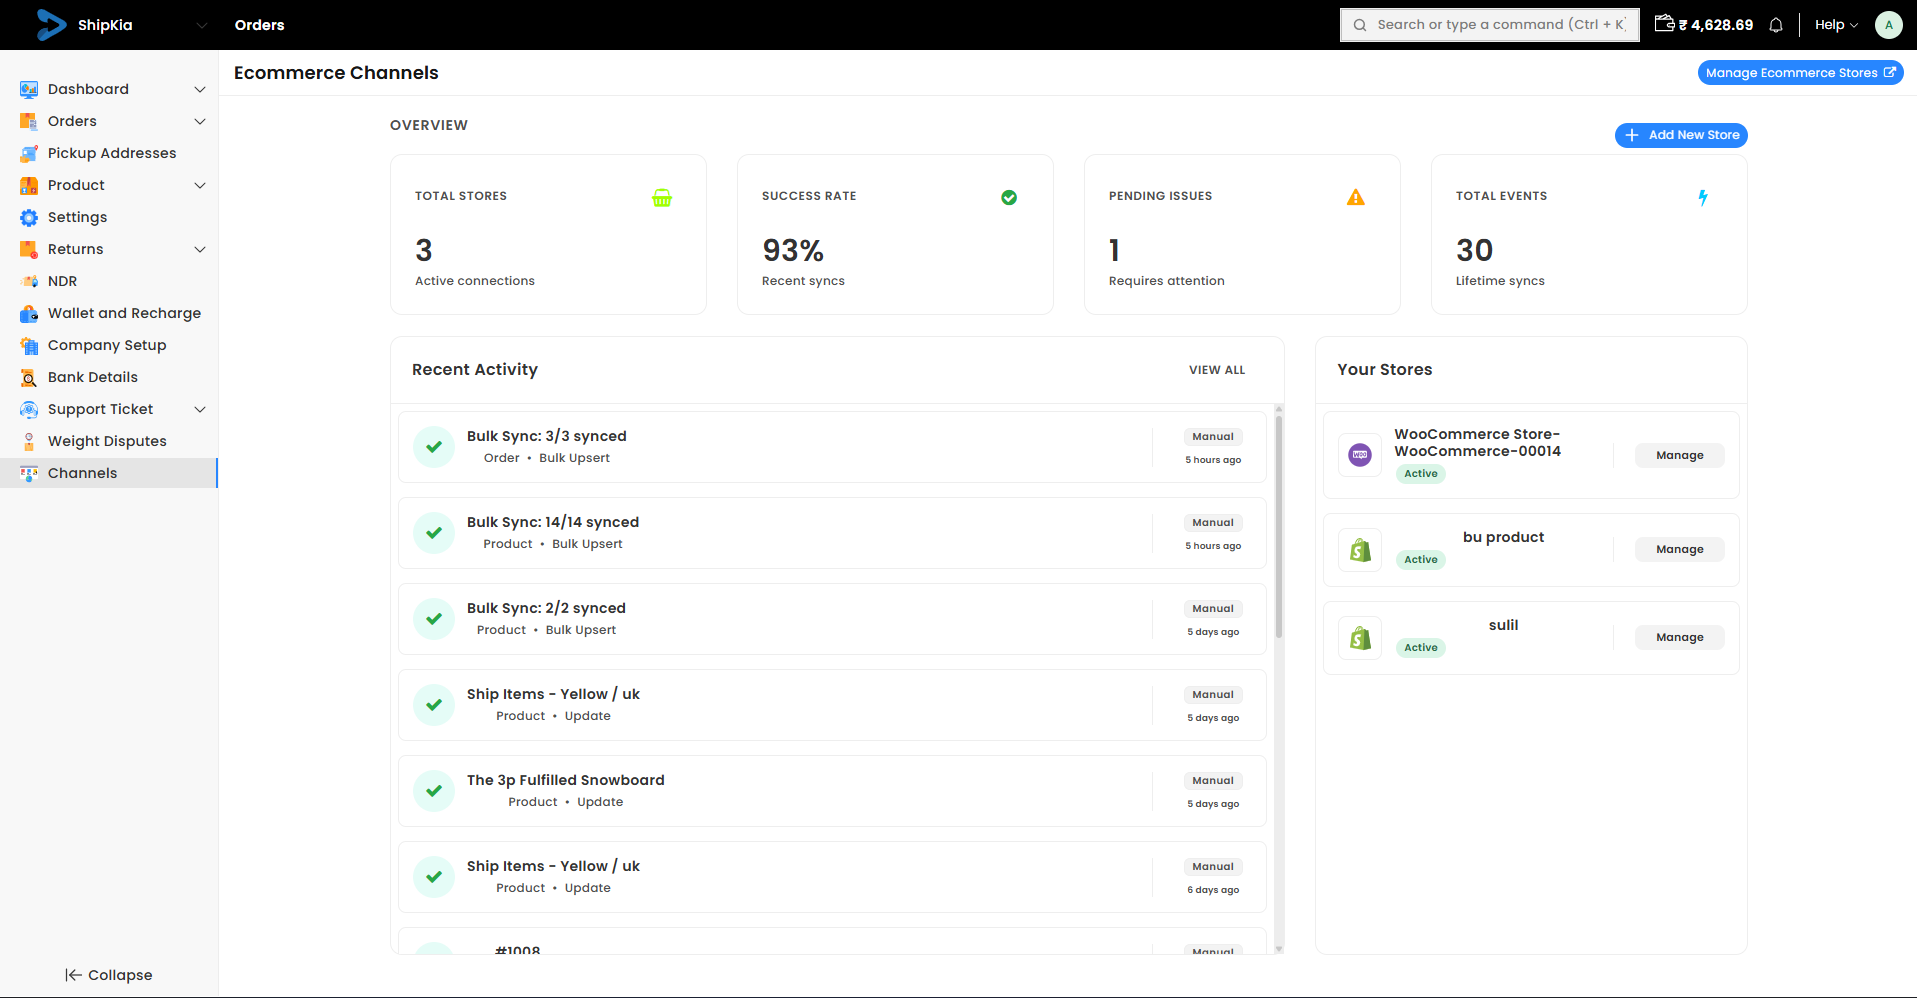
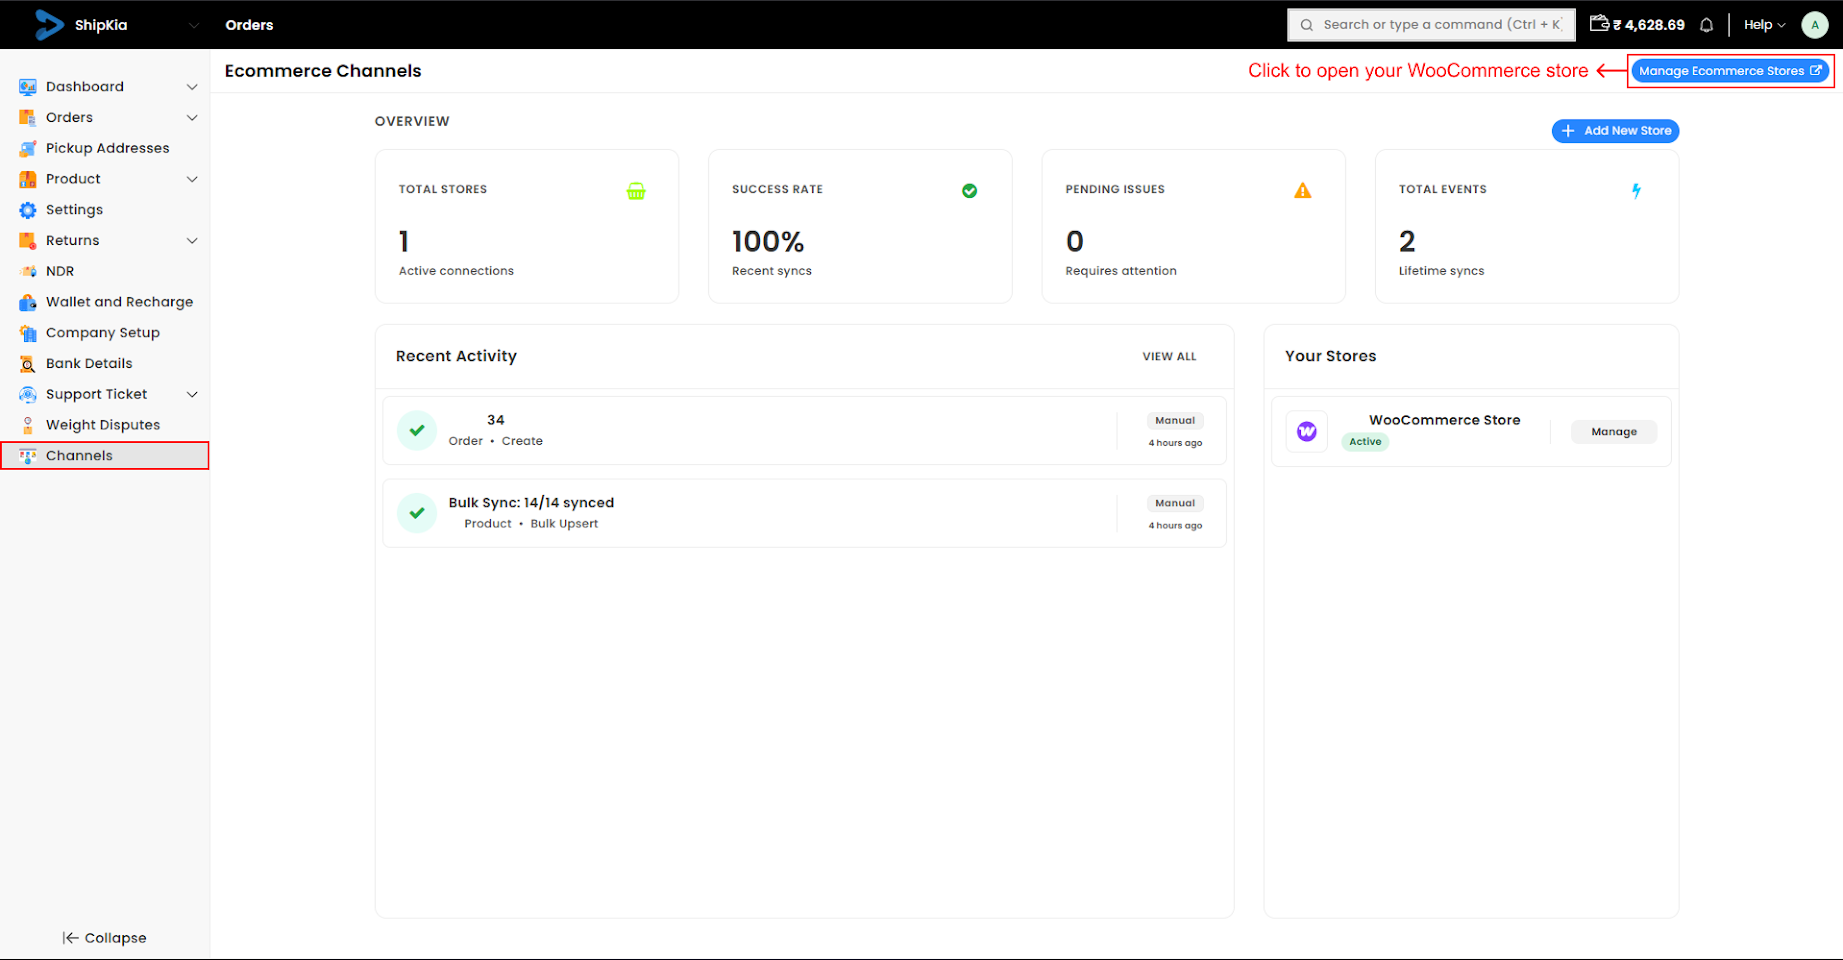
feat: update plugin branding, documentation, and assets, and add type safety to authentication signature generation

diff --git a/shipkia-connect/includes/core/class-auth.php b/shipkia-connect/includes/core/class-auth.php
@@ -758,14 +758,14 @@ class Shipkia_Auth
      */
     private static function generate_signature($domain, $timestamp = null)
     {
-        $secret = self::get_plugin_secret();
+        $secret = (string) self::get_plugin_secret();
         $message = self::normalize_domain($domain);
 
         if ($timestamp) {
             $message .= ':' . $timestamp;
         }
 
-        return hash_hmac('sha256', $message, $secret, true);
+        return hash_hmac('sha256', $message, $secret ?: '', true);
     }
 
     /**
@@ -968,6 +968,7 @@ class Shipkia_Auth
 
     /**
      * Get plugin secret
+     * @return string
      */
     private static function get_plugin_secret()
     {
